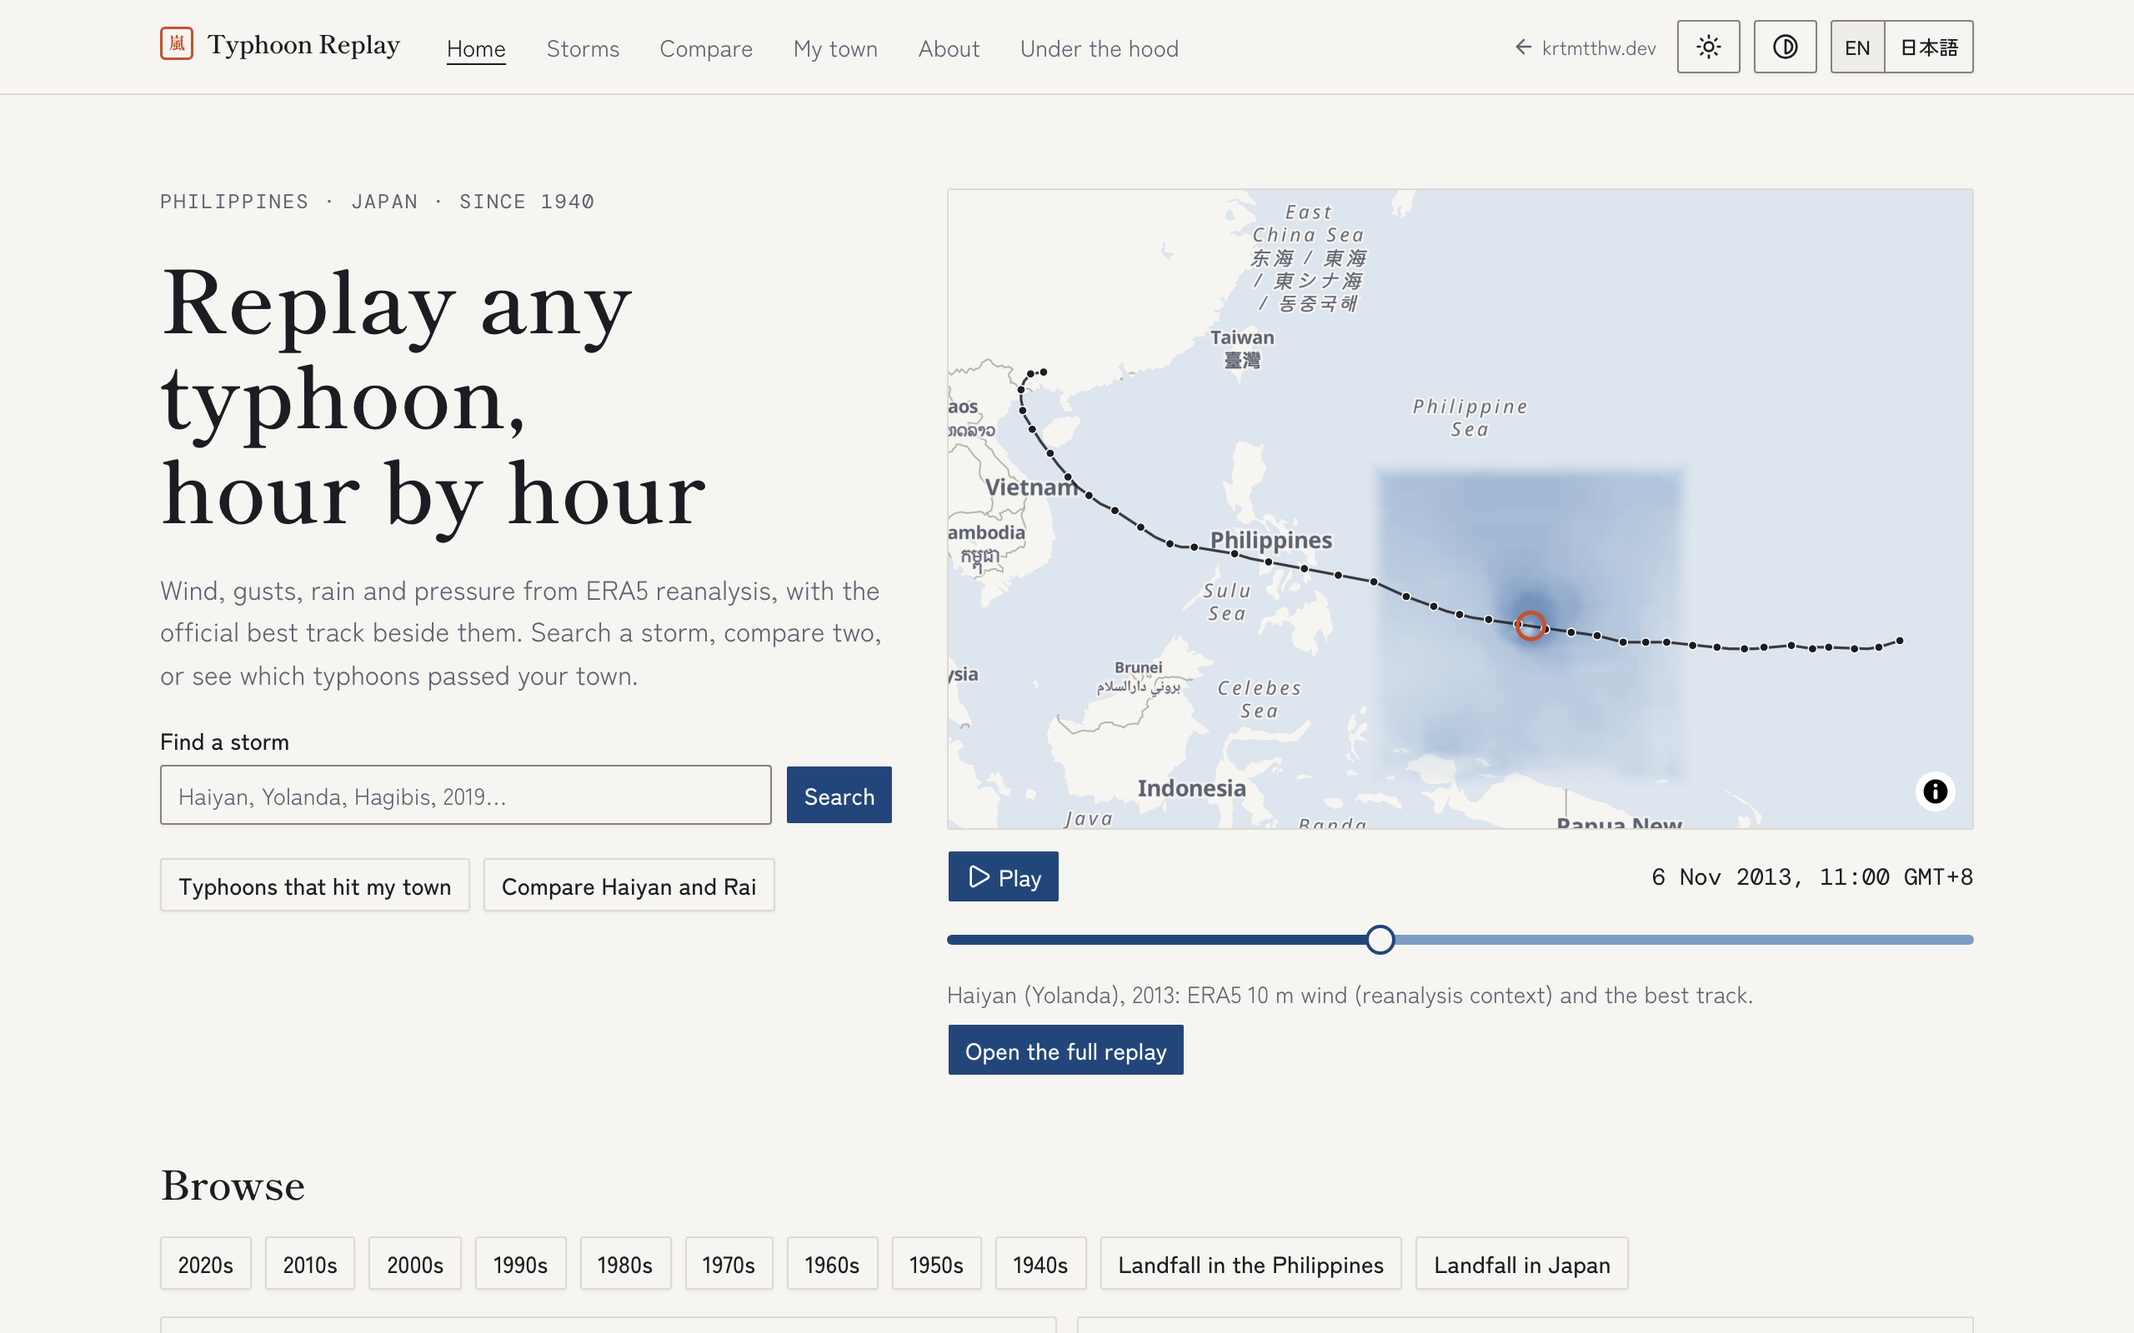
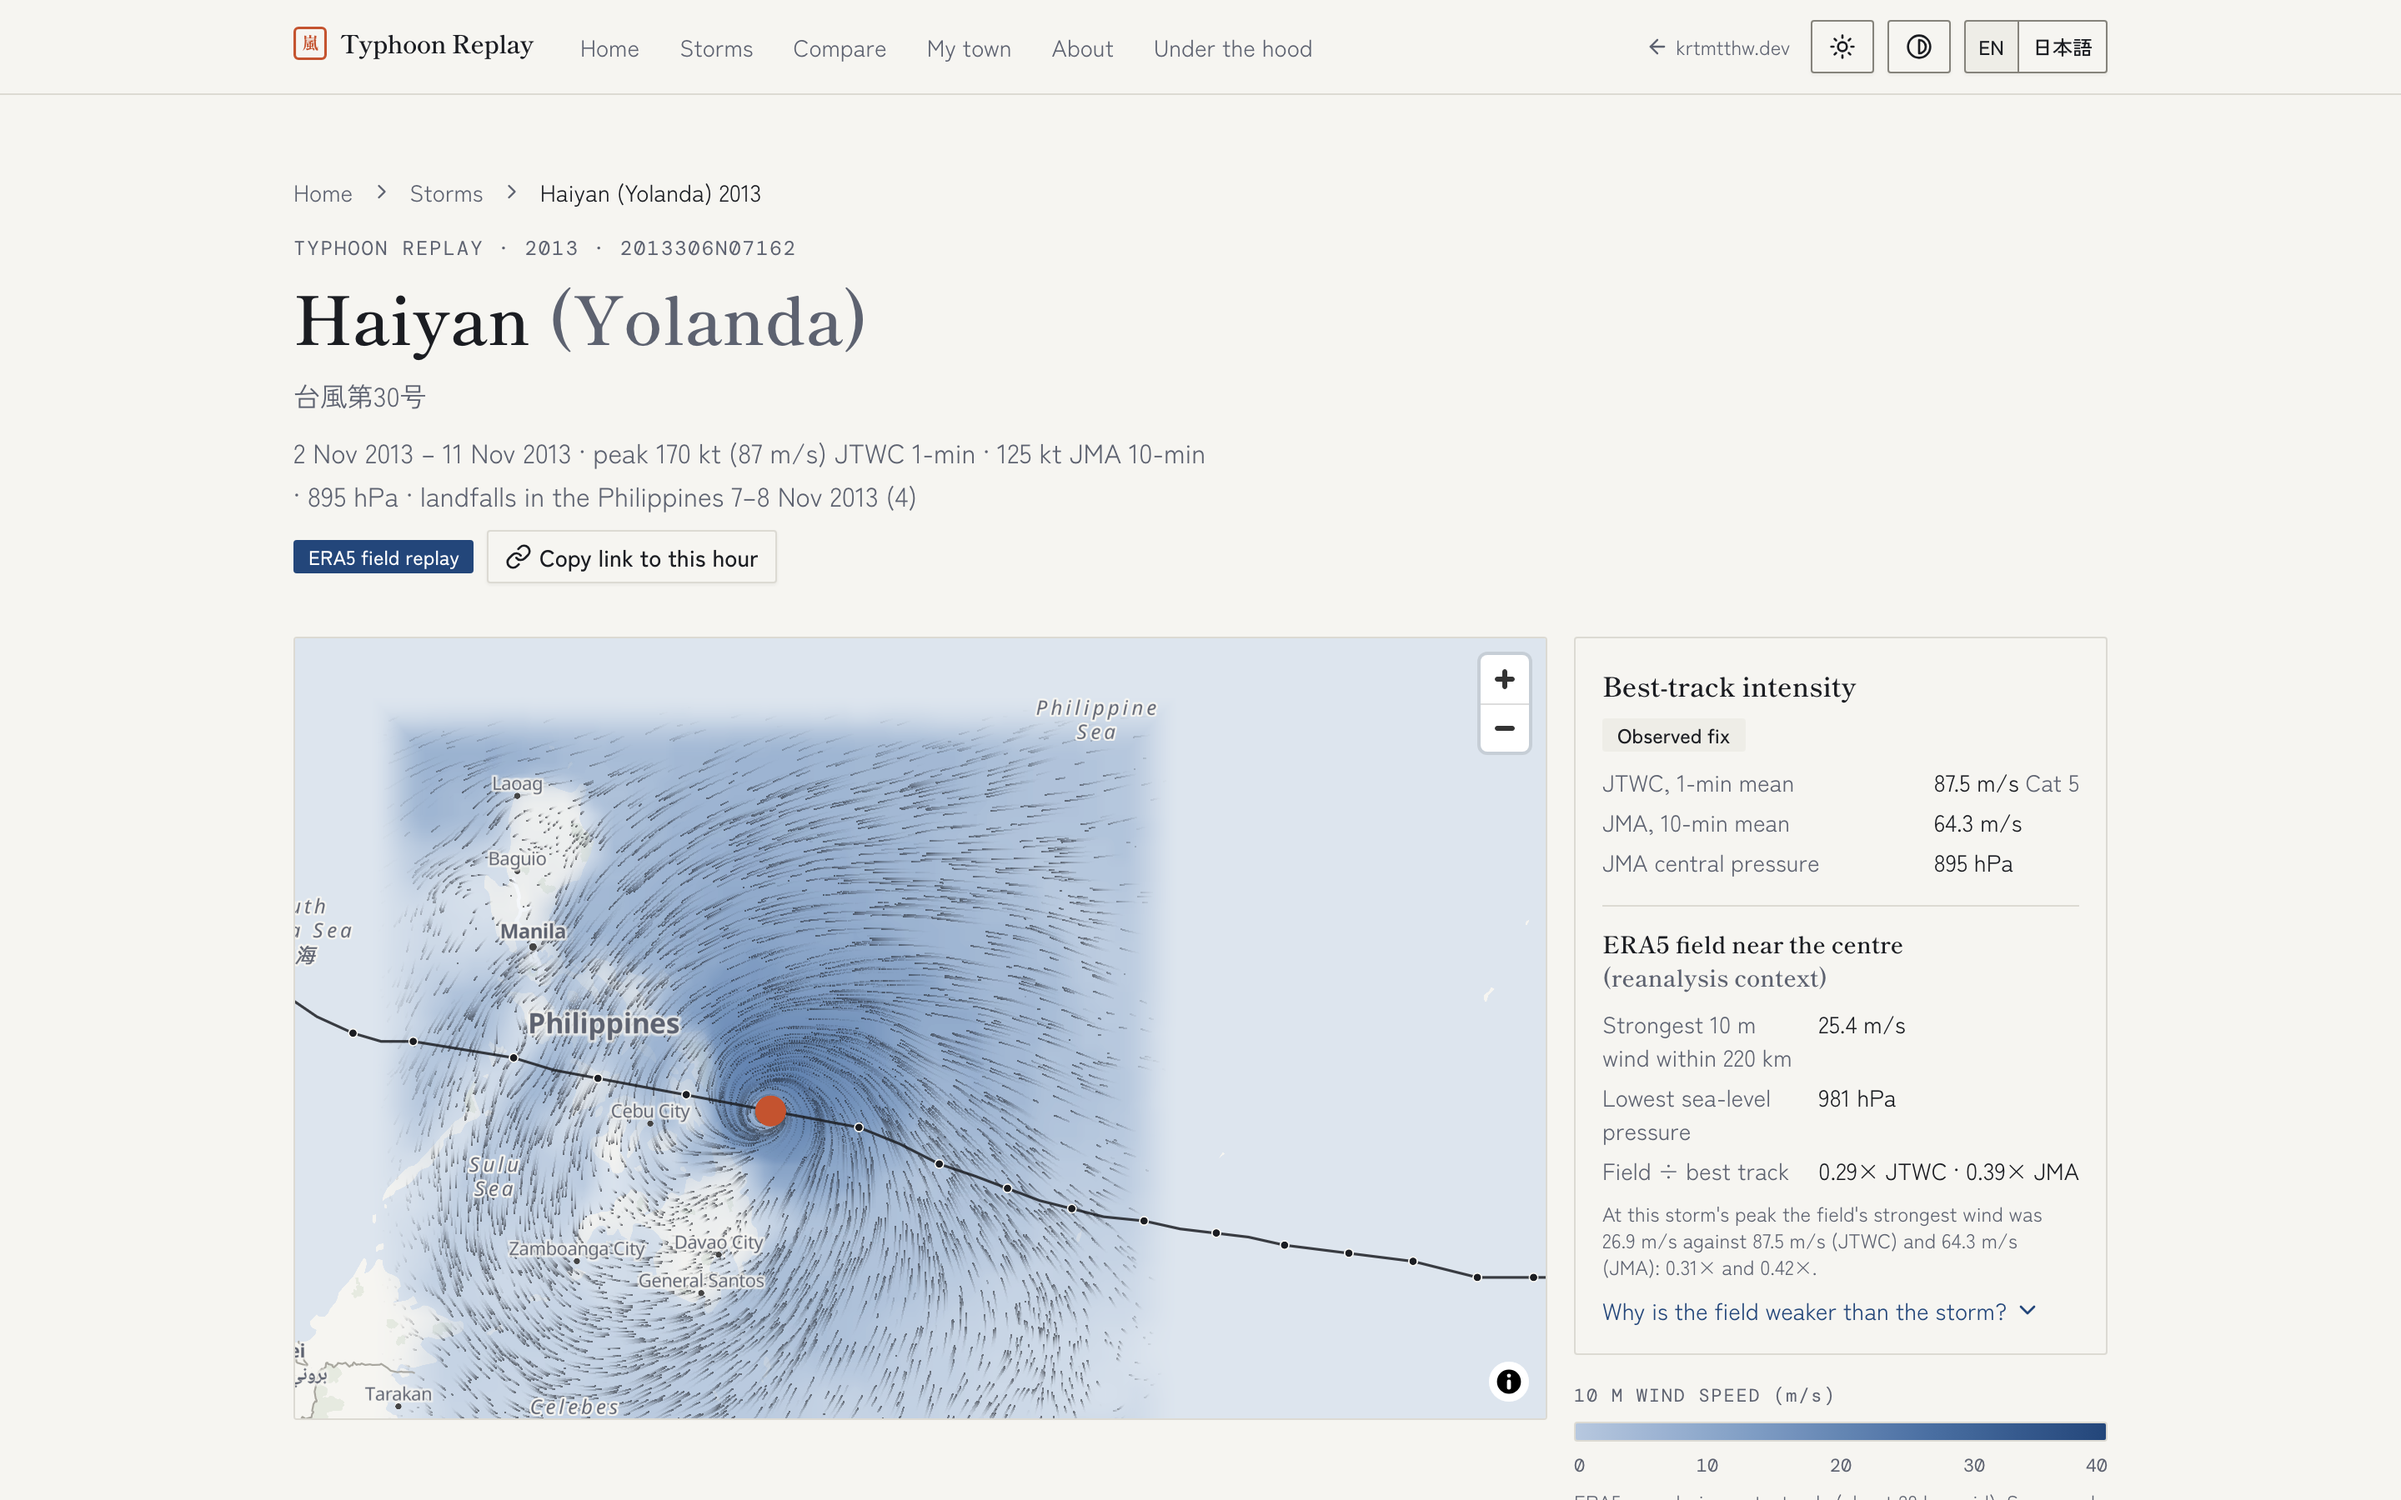
Homepage: Typhoon shots show the storm, Lights gets real screenshots, no CV button, full-stack developer, two live

diff --git a/tests/smoke.spec.ts b/tests/smoke.spec.ts
@@ -5,7 +5,7 @@ const PAGES = [
   { path: "/", heading: "Quiet tools that make data legible." },
   { path: "/projects/", heading: "Things I am building" },
   { path: "/projects/typhoon-replay/", heading: "Typhoon Replay" },
-  { path: "/projects/lgu-lights/", heading: "LGU Lights" },
+  { path: "/projects/lights/", heading: "Lights" },
   { path: "/projects/kessan-lens/", heading: "Kessan Lens" },
   { path: "/projects/akari/", heading: "Akari" },
   { path: "/akari/", heading: "Akari" },
@@ -229,7 +229,7 @@ test.describe("home page", () => {
   test("has the hero, eyebrows, projects without demo links, principles and toolbox", async ({ page }) => {
     await page.goto("/")
     const main = page.getByRole("main")
-    await expect(main.getByText(/enterprise Java systems for Japanese banking clients/)).toBeVisible()
+    await expect(main.getByText(/full-stack developer at IBM, migrating Japanese banking systems/)).toBeVisible()
     await expect(main.getByRole("link", { name: "See the projects" })).toHaveAttribute("href", "#projects")
 
     for (const name of ["Projects", "How I build", "What I build with"]) {
@@ -284,7 +284,7 @@ test.describe("home page", () => {
   test("lists every project as an open row, in order, with the same facts", async ({ page, request }) => {
     const expected = [
       ["Typhoon Replay", "/projects/typhoon-replay/"],
-      ["LGU Lights", "/projects/lgu-lights/"],
+      ["Lights", "/projects/lights/"],
       ["Kessan Lens", "/projects/kessan-lens/"],
       ["Akari", "/projects/akari/"],
     ]
@@ -315,10 +315,8 @@ test.describe("home page", () => {
         expect(h).toBe(href)
       expect((await request.get(href)).status()).toBe(200)
     }
-    await expect(rows.nth(0).locator('[data-picture="shot"] img')).toHaveCount(2)
-    for (const i of [1, 2]) {
-      await expect(rows.nth(i).locator('[data-picture="placeholder"]')).toContainText("Screenshot when it goes live.")
-    }
+    for (const i of [0, 1]) await expect(rows.nth(i).locator('[data-picture="shot"] img')).toHaveCount(2)
+    await expect(rows.nth(2).locator('[data-picture="placeholder"]')).toContainText("Screenshot when it goes live.")
     await expect(rows.nth(3).locator('[data-picture="live"] astro-island')).toHaveCount(1)
     await expect(rows.nth(3)).toContainText("A live Akari component: switch the trend.")
     await expect(page.locator("#projects astro-island")).toHaveCount(1)
@@ -344,8 +342,10 @@ test.describe("home page", () => {
   test("both Typhoon Replay screenshots are optimised, lazy images with alt text", async ({ page }) => {
     await page.goto("/")
     for (const scheme of ["light", "dark"]) {
-      const img = page.locator(`[data-picture="shot"] img[data-theme-shot="${scheme}"]`)
-      await expect(img).toHaveAttribute("alt", new RegExp(`^Typhoon Replay's home page: .*in its ${scheme} theme\\.$`))
+      const img = page.locator(
+        `[data-testid="project-rows"] > li:first-child [data-picture="shot"] img[data-theme-shot="${scheme}"]`,
+      )
+      await expect(img).toHaveAttribute("alt", new RegExp(`^Typhoon Replay's storm page .*in its ${scheme} theme\\.$`))
       await expect(img).toHaveAttribute("srcset", /\.webp 1920w/)
       await expect(img).toHaveAttribute("loading", "lazy")
     }
@@ -353,7 +353,7 @@ test.describe("home page", () => {
 
   // The screenshot follows the active theme: system preference by default, the header toggle when set.
   const shot = (page: Page, scheme: "light" | "dark") =>
-    page.locator(`[data-picture="shot"] img[data-theme-shot="${scheme}"]`)
+    page.locator(`[data-testid="project-rows"] > li:first-child [data-picture="shot"] img[data-theme-shot="${scheme}"]`)
   async function expectShot(page: Page, scheme: "light" | "dark") {
     const other = scheme === "light" ? "dark" : "light"
     await shot(page, scheme).scrollIntoViewIfNeeded()
@@ -443,12 +443,12 @@ test("Typhoon Replay project page: live demo button, facts at a glance, numbered
     "https://github.com/abrycta/typhoon-replay",
   )
   await expect(page.locator(".numbered h2")).toHaveText(["Problem", "Approach", "Architecture", "Where it stands"])
-  await expect(page.getByRole("link", { name: "Next: LGU Lights" })).toHaveAttribute("href", "/projects/lgu-lights/")
+  await expect(page.getByRole("link", { name: "Next: Lights" })).toHaveAttribute("href", "/projects/lights/")
   await expect(page.getByRole("link", { name: "All projects" })).toHaveAttribute("href", "/#projects")
 })
 
 test("planned project pages show a note instead of a demo button", async ({ page }) => {
-  await page.goto("/projects/lgu-lights/")
+  await page.goto("/projects/kessan-lens/")
   const actions = page.getByTestId("project-actions")
   await expect(actions).toContainText("Demo when live")
   await expect(actions.getByRole("link")).toHaveCount(0)

diff --git a/src/lib/site.ts b/src/lib/site.ts
@@ -2,7 +2,7 @@ export const SITE = {
   /** Shown in the header (beside the カ seal) and as the site name. */
   name: "Kurt Matthew Nudo",
   author: "Kurt Matthew Nudo",
-  tagline: "Software engineer",
+  tagline: "Full-stack developer",
   year: 2026,
 } as const
 
